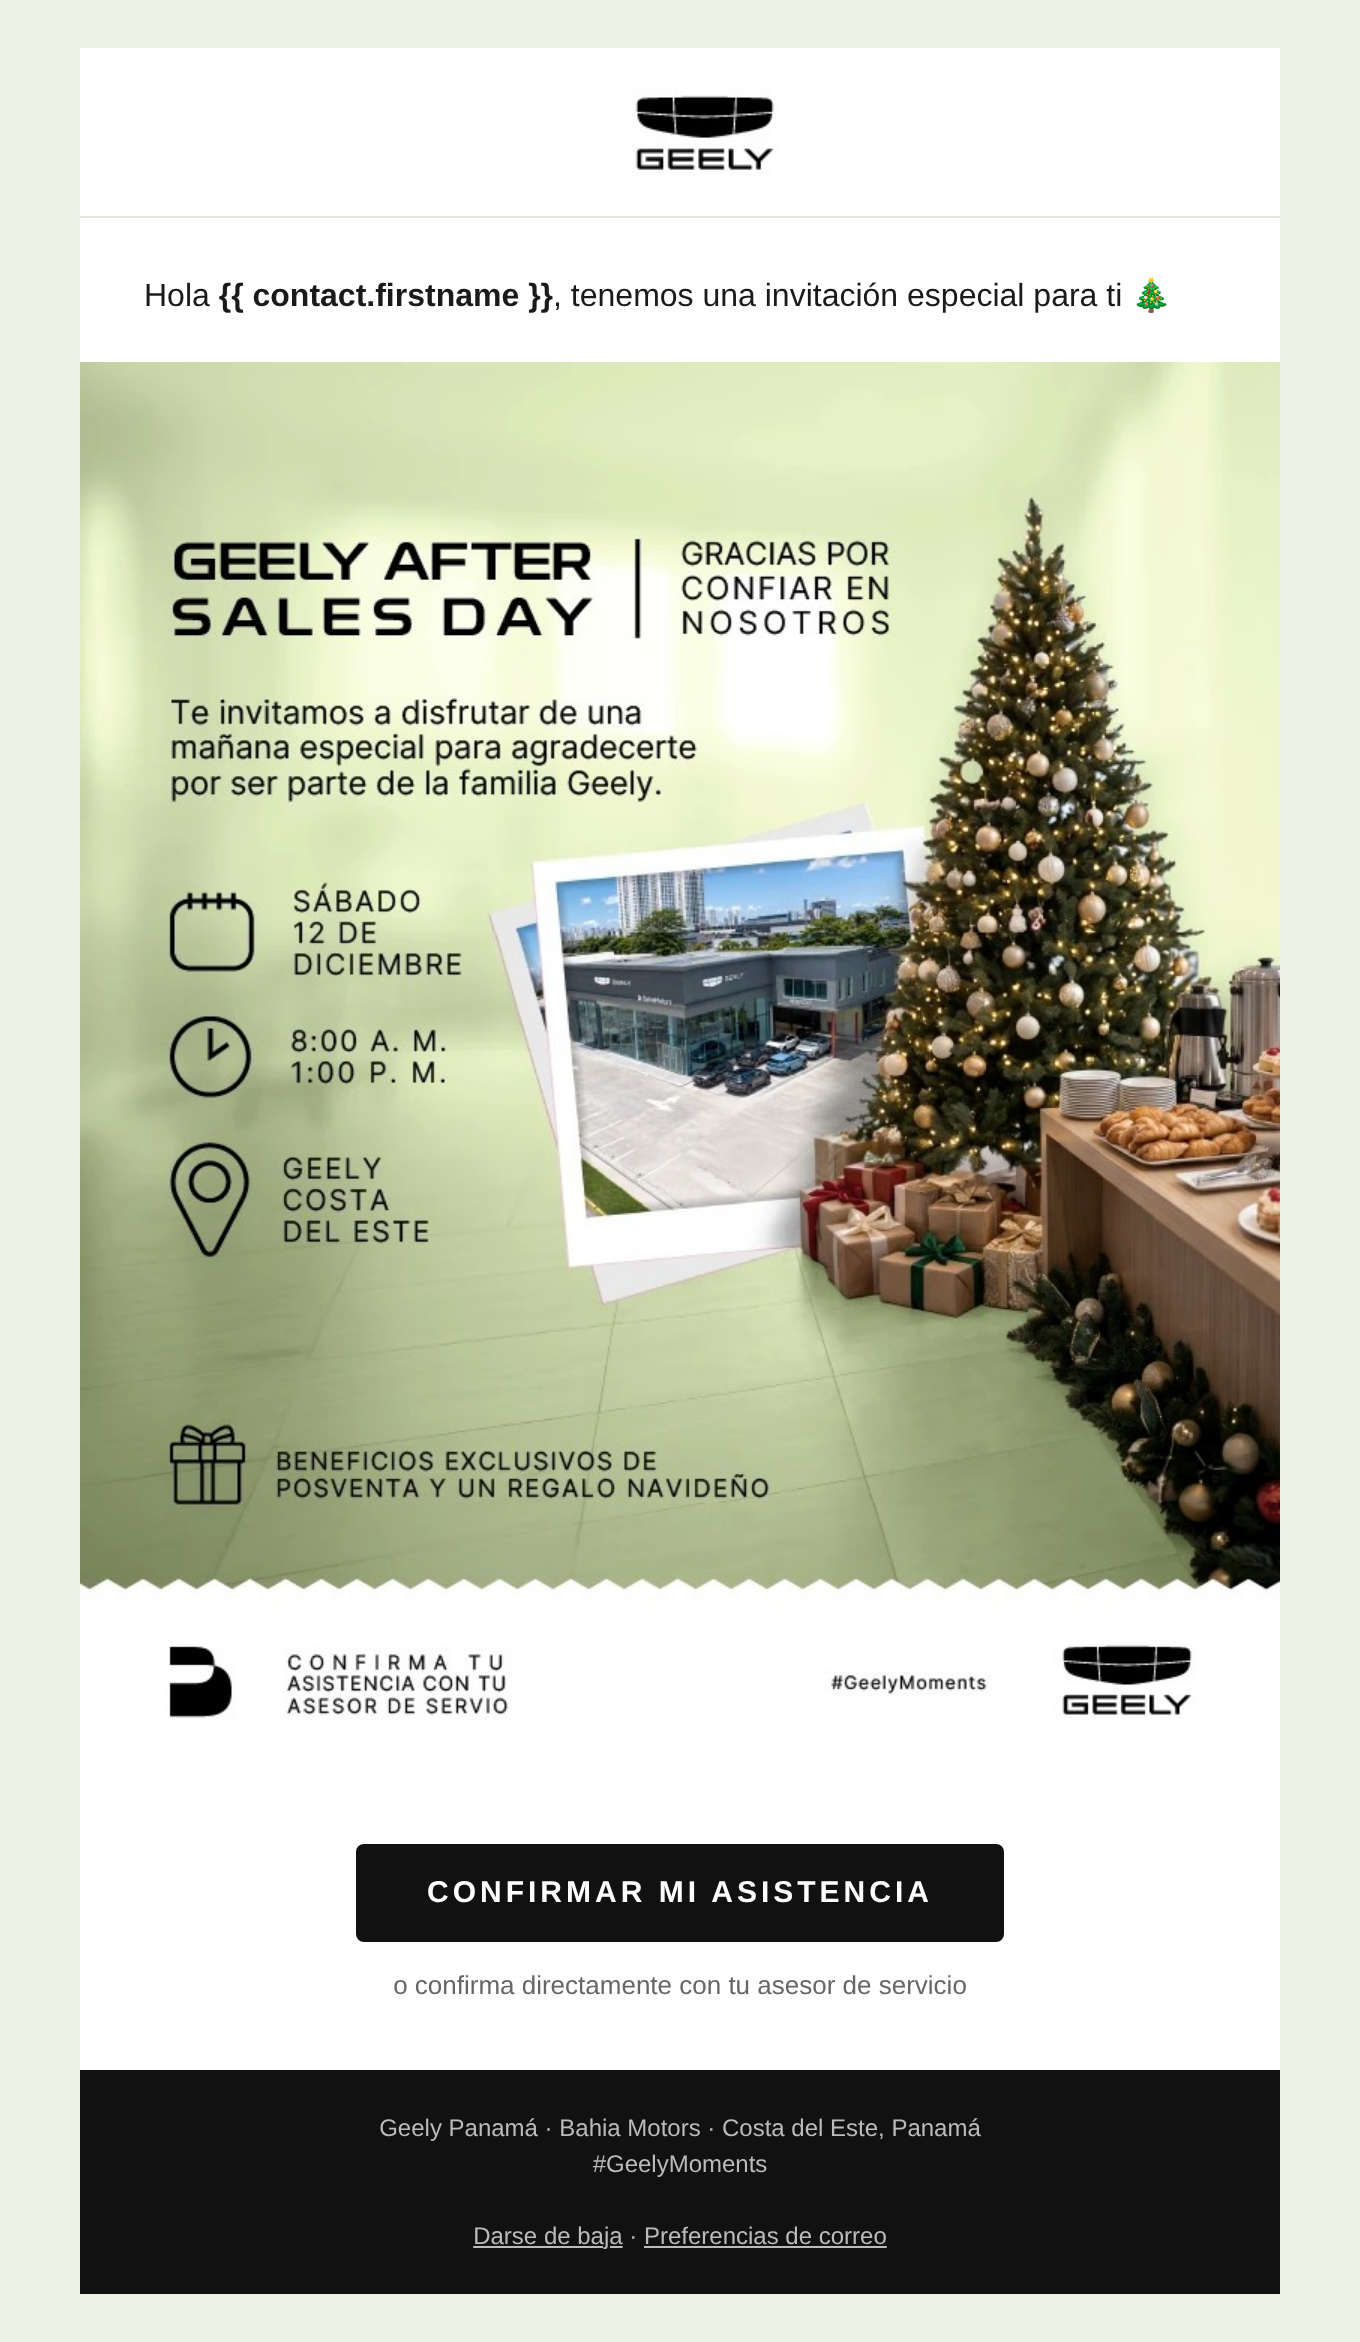
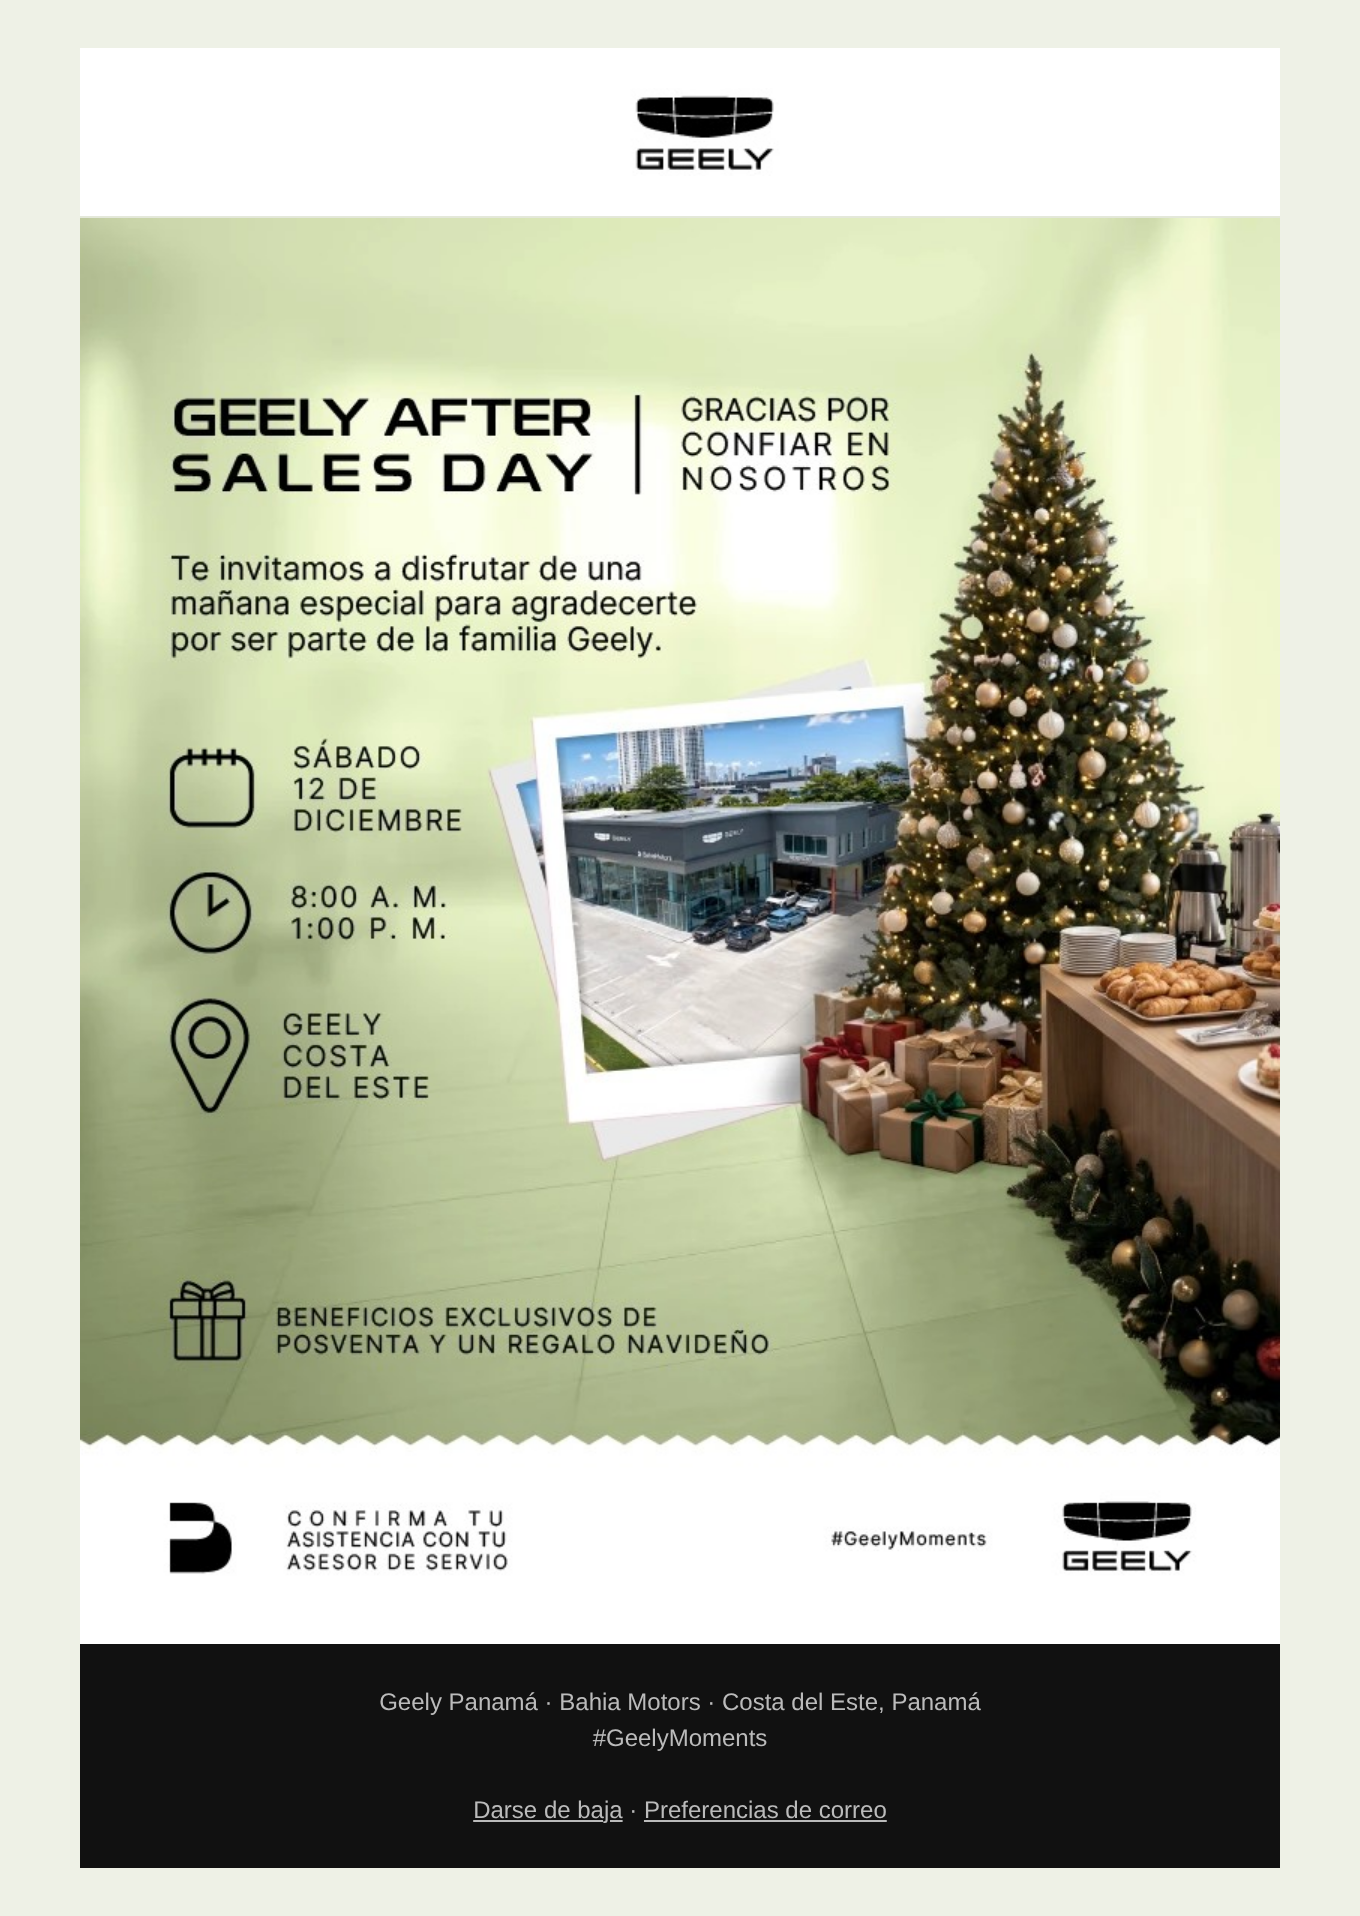
Simplify mockup A: remove greeting and CTA rows
Claude-Session: https://claude.ai/code/session_01WACKjZ115hfJwrugbWRiFa

diff --git a/email-geely-after-sales/boceto-A-flyer.html b/email-geely-after-sales/boceto-A-flyer.html
@@ -19,31 +19,10 @@
         <img src="img/logo-geely.jpg" width="100" alt="GEELY" style="display:block;border:0;width:100px;height:auto;">
       </td>
     </tr>
-    <!-- Saludo corto -->
-    <tr>
-      <td style="padding:28px 32px 12px;font-family:Arial,Helvetica,sans-serif;color:#1A1A1A;font-size:16px;line-height:24px;">
-        Hola <strong>{{ contact.firstname }}</strong>, tenemos una invitación especial para ti 🎄
-      </td>
-    </tr>
     <!-- Flyer completo -->
     <tr>
-      <td style="padding:8px 0 0;">
+      <td style="padding:0;">
         <img src="img/flyer-completo.jpg" width="600" alt="Geely After Sales Day — Sábado 12 de diciembre, 8:00 a.m. a 1:00 p.m., Geely Costa del Este. Beneficios exclusivos de posventa y un regalo navideño." style="display:block;border:0;width:100%;max-width:600px;height:auto;">
-      </td>
-    </tr>
-    <!-- CTA -->
-    <tr>
-      <td align="center" style="padding:28px 32px 8px;">
-        <table role="presentation" cellpadding="0" cellspacing="0" border="0">
-          <tr><td align="center" bgcolor="#111111" style="border-radius:4px;">
-            <a href="#" style="display:inline-block;padding:16px 36px;font-family:Arial,Helvetica,sans-serif;font-size:15px;font-weight:bold;letter-spacing:2px;color:#FFFFFF;text-decoration:none;text-transform:uppercase;">Confirmar mi asistencia</a>
-          </td></tr>
-        </table>
-      </td>
-    </tr>
-    <tr>
-      <td align="center" style="padding:4px 32px 32px;font-family:Arial,Helvetica,sans-serif;font-size:13px;line-height:20px;color:#666666;">
-        o confirma directamente con tu asesor de servicio
       </td>
     </tr>
     <!-- Footer -->
